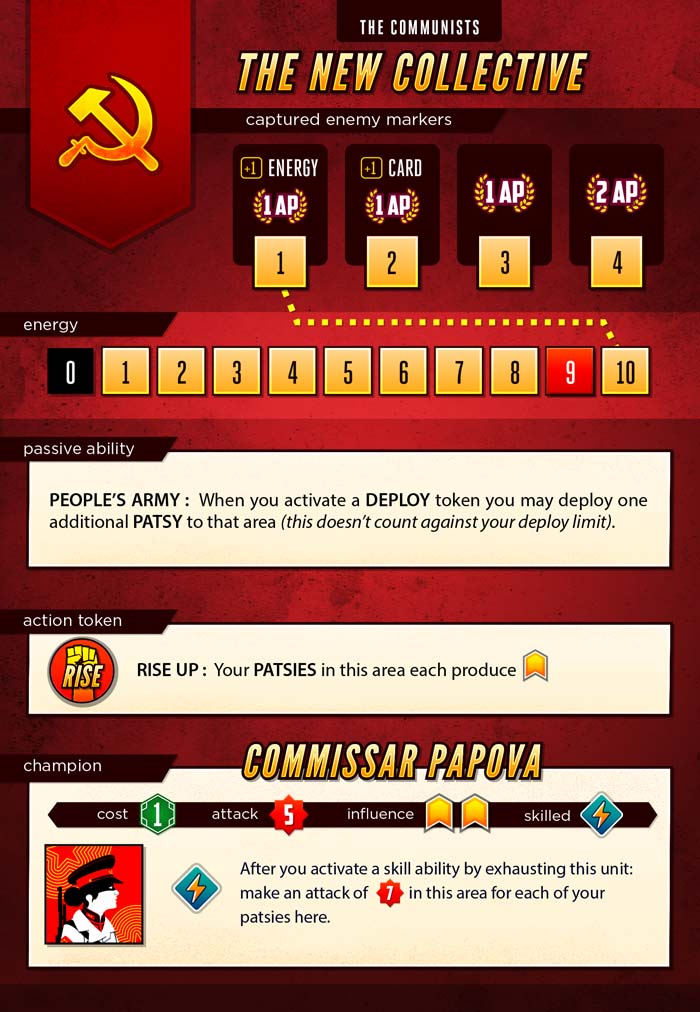
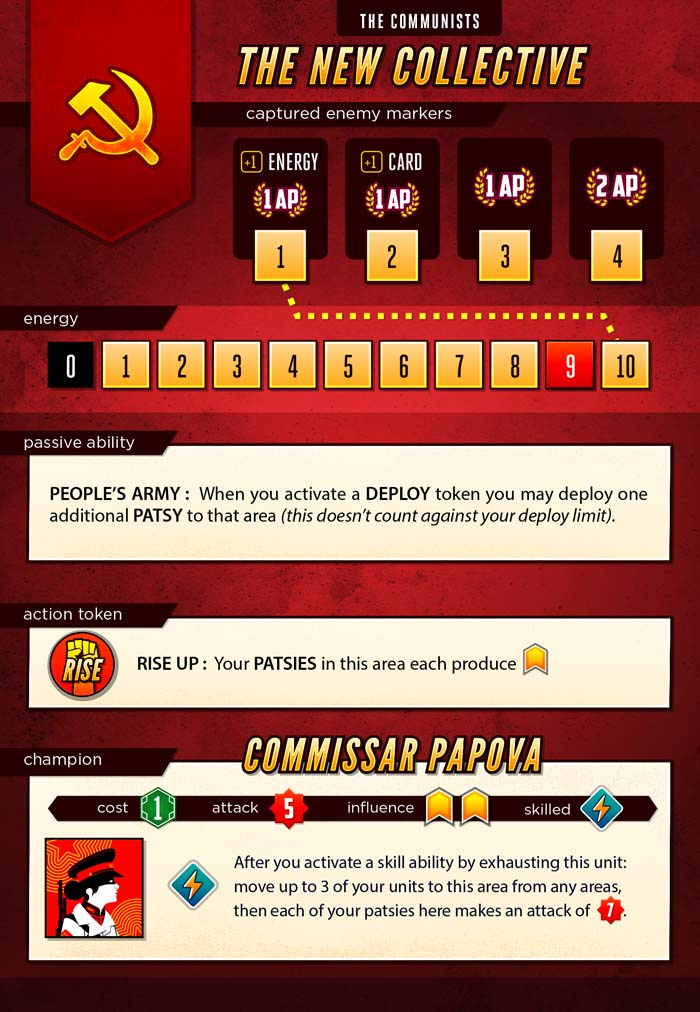
Add pavov move to papov shoot skill ability

diff --git a/server/classes/factions/Commies.js b/server/classes/factions/Commies.js
@@ -44,7 +44,7 @@ class Commies extends Faction {
                 skilled: true,
                 ready: false,
                 killed : false,
-                onSkill : 'papovShoot', //papovMove
+                onSkill : 'papovMoveShoot', //papovMove
                 selected : false,
                 hitsAssigned : 0
             }
@@ -86,7 +86,19 @@ class Commies extends Faction {
      *
      * @param event
      */
-    async papovShoot( event ){
+    async papovMoveShoot( event ){
+
+        this.message(`<span class="faction-commies">Commissar Papova</span> calls for reinforcements` );
+
+        await this.move({
+            area: this.game().areas[event.unit.location],
+            toArea : event.unit.location,
+            fromToken: false,
+            moveLimit: 3,
+            farMove: true,
+            player : this.playerId
+        }).catch( error => console.error( error ) );
+
         this.message(`<span class="faction-commies">Commissar Papova</span> inspires her patsies to riot` );
 
         let area = this.game().areas[event.unit.location];
